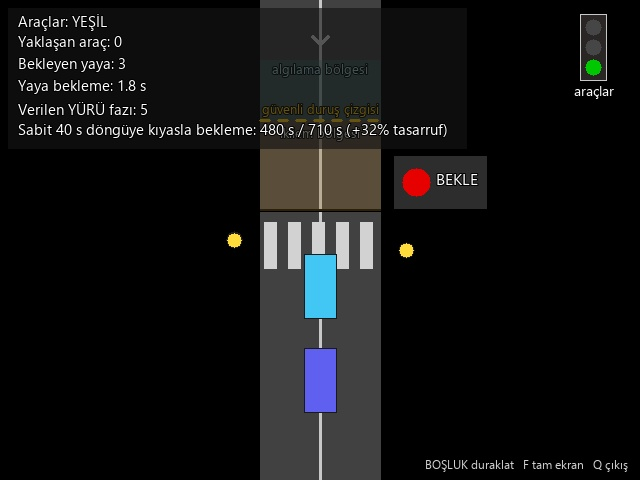
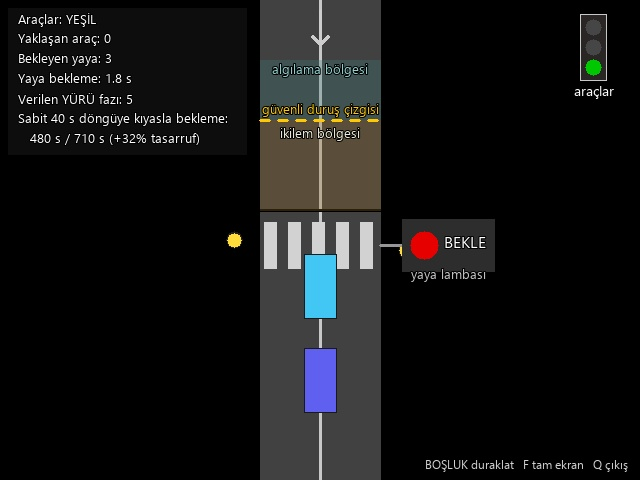
Case 1 polish: compact HUD panel, labelled pedestrian lamp aligned with the crosswalk
The HUD panel no longer stretches over the road: smaller font, the
twin-world savings line wraps onto two lines, and the panel width is
capped at the road edge. The pedestrian signal is now vertically aligned
with the zebra crossing it controls, tied to it with a connector line,
and labelled 'yaya lambası' (added to the translation table).

Claude-Session: https://claude.ai/code/session_0159dhhnJ6cFi6rrwV8XwqLF

Changed region(s): [[0.0312, 0.0, 0.7188, 0.3125], [0.5938, 0.3125, 0.7812, 0.5938]]

diff --git a/pedestrian_crossing.py b/pedestrian_crossing.py
@@ -498,7 +498,12 @@ class PedestrianCrossingSimulation:
 
     # -- rendering ---------------------------------------------------------
     def _draw_ped_signal(self, frame: "np.ndarray", ped_signal: str) -> None:
-        x, y = self.road._lane_right + 14, self.crosswalk_top - 66
+        # Aligned with the crosswalk it controls, and labelled, so there is
+        # no doubt which lamp this is.
+        x = self.road._lane_right + 22
+        y = (self.crosswalk_top + self.crosswalk_bottom) // 2 - 26
+        mid = (self.crosswalk_top + self.crosswalk_bottom) // 2
+        cv2.line(frame, (self.road._lane_right, mid), (x, mid), (150, 150, 150), 2)
         cv2.rectangle(frame, (x, y), (x + 92, y + 52), (45, 45, 45), -1)
         from demo_ui import draw_text
         from ui_text import T
@@ -510,6 +515,8 @@ class PedestrianCrossingSimulation:
         label = T({"WALK": "WALK", "CLEAR": "CLEAR"}.get(ped_signal, "WAIT"))
         cv2.circle(frame, (x + 22, y + 26), 14, color, -1)
         draw_text(frame, label, (x + 40, y + 16), size=16)
+        draw_text(frame, T("pedestrian lamp"), (x + 46, y + 56), size=13,
+                  color=(200, 200, 200), center=True)
 
     def render(self, status: Dict[str, object]) -> "np.ndarray":
         from smart_traffic_system import draw_compact_signal
@@ -556,17 +563,25 @@ class PedestrianCrossingSimulation:
             ours = self.road.total_wait + self.ped_wait_total
             if base > 1.0:
                 pct = 100.0 * (base - ours) / base
-                info.append(T("Waiting vs fixed {c} s cycle: {a} s vs {b} s ({p}% saved)").format(
-                    c=40, a=f"{ours:.0f}", b=f"{base:.0f}", p=f"{pct:+.0f}"))
+                savings = T("Waiting vs fixed {c} s cycle: {a} s vs {b} s ({p}% saved)").format(
+                    c=40, a=f"{ours:.0f}", b=f"{base:.0f}", p=f"{pct:+.0f}")
+                # Split the long line so the panel never reaches the road.
+                if ": " in savings:
+                    head, tail = savings.split(": ", 1)
+                    info.append(head + ":")
+                    info.append("   " + tail)
+                else:
+                    info.append(savings)
         from demo_ui import text_size
 
-        panel_w = 12 + max(text_size(t, 15)[0] for t in info)
+        panel_w = 12 + max(text_size(t, 13)[0] for t in info)
+        panel_w = min(panel_w, self.road._lane_left - 24)
         overlay = frame.copy()
-        cv2.rectangle(overlay, (8, 8), (8 + panel_w + 12, 16 + 22 * len(info)),
+        cv2.rectangle(overlay, (8, 8), (8 + panel_w + 12, 14 + 20 * len(info)),
                       (20, 20, 20), -1)
         cv2.addWeighted(overlay, 0.65, frame, 0.35, 0, frame)
         for idx, text in enumerate(info):
-            draw_text(frame, text, (16, 12 + idx * 22), size=15)
+            draw_text(frame, text, (16, 11 + idx * 20), size=13)
         return frame
 
     # -- loop ---------------------------------------------------------------

diff --git a/ui_text.py b/ui_text.py
@@ -26,6 +26,7 @@ TR = {
     'CLEAR': 'BİTİYOR',
     'PARKED': 'PARK HALİNDE',
     'All red (safety clearance)': 'Hepsi kırmızı (güvenlik aralığı)',
+    'pedestrian lamp': 'yaya lambası',
     # case 1
     'Cars: GREEN': 'Araçlar: YEŞİL',
     'Cars: YELLOW': 'Araçlar: SARI',
